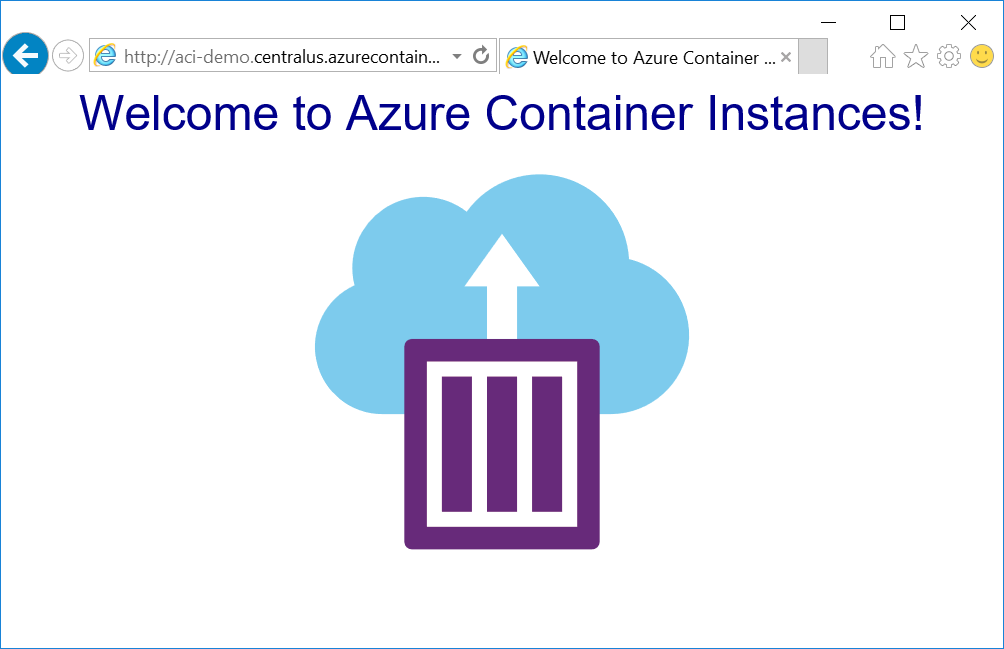
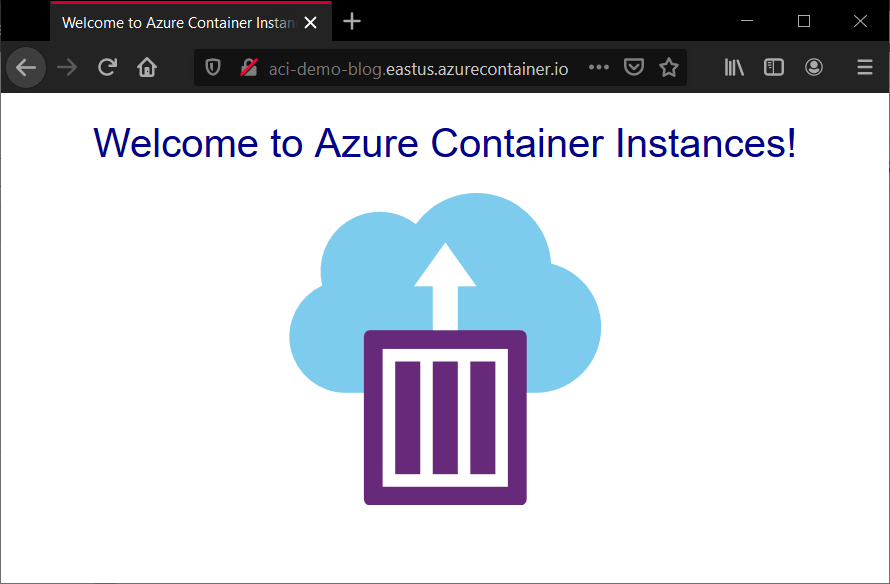
fix posts and add new entry

Changed region(s): [[0.0, 0.0, 1.0, 0.6164], [0.3337, 0.4932, 0.6674, 0.863], [0.0, 0.9863, 1.0, 1.0]]

diff --git a/_posts/2019-07-04-azure-container-instances-intro.md b/_posts/2019-07-04-azure-container-instances-intro.md
@@ -1,0 +1,102 @@
+--- 
+title: "Container Instances desde la línea de comandos"
+author: Victor Silva
+date: 2019-07-04T07:17:00+00:00 
+layout: single 
+permalink: /azure-container-instances-intro/ 
+excerpt: "" 
+categories: 
+  - Azure
+  - DevOps 
+  - PowerShell 
+tags: 
+  - Azure
+  - Azure Container Instances
+  - PowerShell
+  - Azure CLI
+---
+Azure Container Instances es una solución que nos permite ejecutar contenedores basados en imágenes, públicas o privadas, partiendo del la siguiente premisa: no es necesario provisionar ningún tipo de infraestructura antes de ejecutar el o los contenedores. Sumado a la falta de necesidad de administrar la plataforma, este servicio tiene un modelo de facturación por segundo, lo que significa que vamos a pagar únicamente el tiempo en que el contenedor se encuentre en ejecución. Si necesitamos ejecutar un container por 20 minutos y luego lo eliminamos, vamos a tener que pagar solamente por esos 20 minutos que el contenedor se ha estado ejecutando.
+
+Por ende nuestra preocupación se va a centrar en desplegar el contenedor y en detenerlo cuando no lo necesitemos más, pero no en eliminar la infrastructura que se ha generado por detrás. Aunque suena demasiado "cool", este servicio no es para todos los escenarios como por ejemplo un web server, ya que el costo a largo plazo es más caro que en otras soluciones disponibles. Pero sí sería muy útil en escenarios de testing o experimentales, en procesos batch o todos aquellos que sean efímeros.
+
+
+## Creando el primer recurso ACI
+
+Para trabajar sobre Azure Container Instances desde la consola tenemos la opción de **Azure CLI** o utilizar el módulo de PowerShell **Az**. Debido a que el contenido del post es lograr desplegar los recursos de una forma sencilla, voy a detallar en el siguiente procedimiento los pasos ejecutar con *Azure CLI* desde la Cloud Shell usando *Bash* desde mi *Windows Terminal*.
+
+Lo primero es identificar un Resource Group dentro de nuestra subscription en Azure para alojar los recursos, o de lo contrario crear uno:
+
+{% highlight posh%}
+  az group create \
+    --location EastUs \
+    --name aci-demo
+{% endhighlight %}
+
+Ya con el contenedor disponible, lo siguiente es generar el recurso Azure Container Instance utilizando una imagen ya armada por parte de Microsoft, el viejo y querido "Hello World":
+
+{% highlight posh%}
+  az container create \
+    --resource-group aci-demo \
+    --name aci-container \
+    --image microsoft/aci-helloworld \
+    --dns-name-label aci-demo-blog \
+    --ports 80
+{% endhighlight %}
+
+¿Por qué utilizamos la imagen `microsoft/aci-helloworld`? Porque la imagen pertenece al repositorio público de Docker. Más información sobre la imagen:
+
+[https://github.com/Azure-Samples/aci-helloworld](https://github.com/Azure-Samples/aci-helloworld)
+
+Luego de esperar unos segundos a que finalice el deploy, es necesario ejecutar el siguiente comando para extraer la información sobre el recurso desplegado:
+
+{% highlight posh%}
+  az container show \
+    --resource-group aci-demo \
+    --name aci-container \
+    --query "{FQDN:ipAddress.fqdn,ProvisioningState:provisioningState}" \
+    --out table
+{% endhighlight %}
+
+<img src="/assets/images/postsImages/AZ_ACI_01.png" alt="Show container provisioningState" class="alignnone"/>
+
+Si el valor de `ProvisioningState` es **Succeeded**, entonces al acceder desde el navegador utilizando el FQDN resultante, se debería desplegar algo como la siguiente imagen:
+
+<img src="/assets/images/postsImages/AZ_ACI_02.png" alt="Hello world webpage" class="alignnone"/>
+
+Si esto es así, felicitaciones! Se ha desplegado correctamente un container de Docker sobre Azure utilizando el servicio Container Instances.
+
+## Próximos pasos
+
+Tenemos una imagen ya armada en un contenedor corriendo con lo básico de configuración. ¿Cómo podemos cambiar esos valores? Lo primero que debemos hacer es enfocar la atención en el comando `az container create`, donde vamos a ver los siguientes ejemplos:
+
+Si queremos correr el contenedor anterior con 2 cpus y 3.5GB de memoria, debemos ejecutarlo de la siguiente manera:
+
+{% highlight posh%}
+  az container create \
+    --resource-group aci-demo \
+    --name aci-container2 \
+    --image nginx:latest \
+    --dns-name-label aci-blog-nginx \
+    --os-type Linux \
+    --cpu 2 \
+    --memory 3.5
+{% endhighlight %}
+
+(Para el ejemplo utilicé otra imagen de contenedor)
+
+En caso de querer ver que realmente se encuentre con la configuración deseada, podemos volver a utilizar el comando `az container show` así:
+
+{% highlight posh%}
+  az container show \
+    --resource-group aci-demo \
+    --name aci-container2 \
+    --output table
+{% endhighlight %}
+
+Obteniendo como resultado:
+
+<img src="/assets/images/postsImages/AZ_ACI_03.png" alt="Container info" class="alignnone"/>
+
+Lo siguiente es ver como armar una imagen y publicarla en un Container Registry en Azure para luego ejecutar un container en Container Instances, así que atentos al blog...
+
+Happy Scripting!

diff --git a/_posts/2019-05-16-arm-templates-conditions.md b/_posts/2019-05-16-arm-templates-conditions.md
@@ -17,7 +17,7 @@ tags:
 
 Azure Resource Manager es "la" solución que ofrece Microsoft para hacer el deploy en Azure de forma nativa. Y cuando digo LA es porque, si bien existen otras soluciones, Azure Resource Manager es la base fundamental de los recursos actuales. También es cierto que algunos templates de ARM pueden volverse muy largos y confusos cuando agrupan la definición de varios recursos, ya que la estructura de JSON no es la mejor aliada para estos casos.
 
-<img src="/assets/images/postsImages/AZ_ARM_templates_1.jpg" class="alignnone" />
+<img src="/assets/images/postsImages/AZ_ARM_templates_1.png" class="alignnone" />
 
 De todas formas, ARM juega un papel fundamental en los despliegues y hoy vamos a ver un particularidad de éstos, como lo son las condiciones.
 
